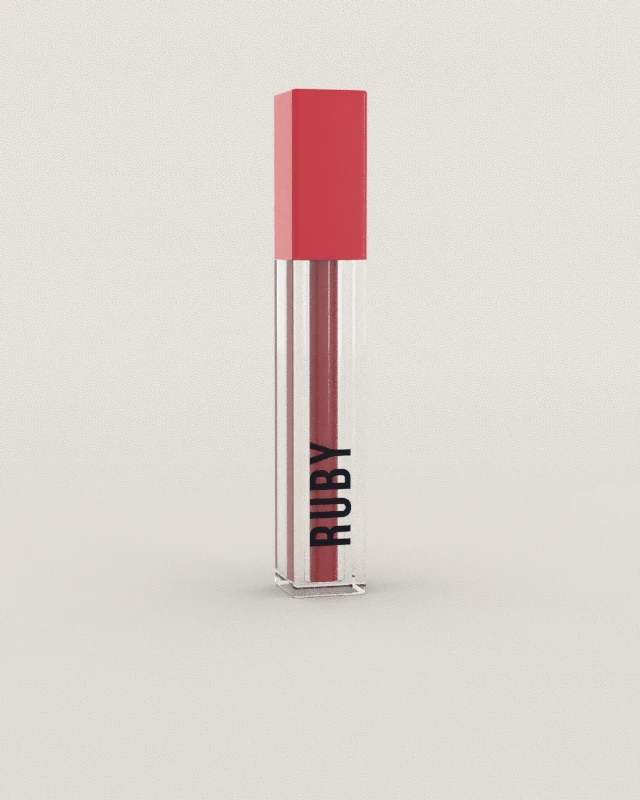
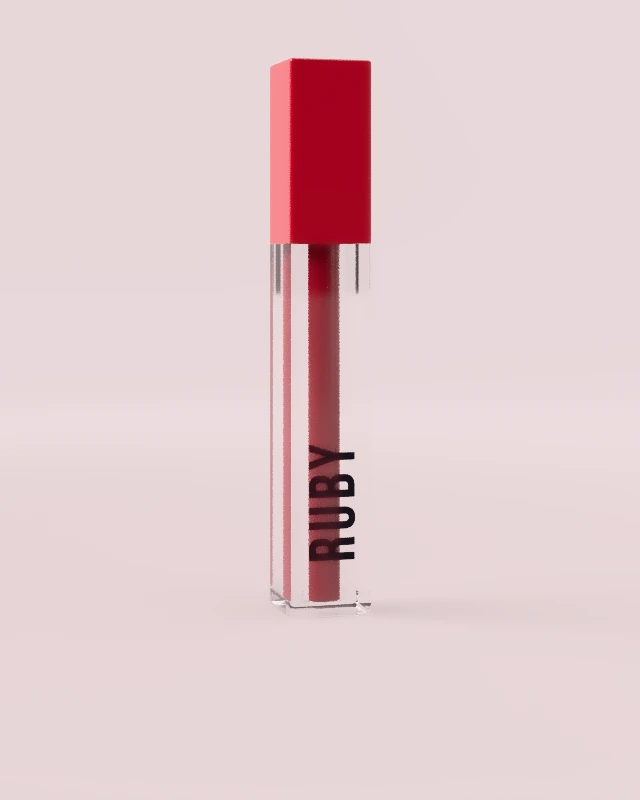
Near-white backdrop with a faint shadow, Studio returns to where it was opened
Renders
- Backdrop is nearly white with only a breath of the product's colour
- One soft light from above (a set share of the studio's floor light) throws a
  light, soft-edged shadow; the floor takes more of its light from the studio
- Archive: the last five cards rendered with the previous look, so the grid is
  consistent; docs/archive-renders.md says all 36 are to be rendered again

Studio
- The back link, and leaving through the save dialog, lead to the page the Studio
  was opened from (Archive, Design, Saved or home), kept across a reload

Changed region(s): [[0.375, 0.0625, 0.6562, 0.7812]]

diff --git a/js/render/hq-render.js b/js/render/hq-render.js
@@ -82,6 +82,34 @@
     return (s * 2 * Math.PI) / (W * H);
   };
 
+  /** One soft light from above, on the camera's left: it is what throws the light, soft-edged
+   *  shadow beside the product. It stands high, so the sides of a container never mirror it.
+   *  Its strength is a set share of the light the panorama itself throws on the floor. */
+  const KEY_UP = 0.96, KEY_SIDE = 1.0, KEY_SOFT = [0.2, 0.5], KEY_SHARE = 0.35; // radians, and its share
+  function addKey(data, W, H, facing) {
+    const front = Math.PI / 2 - facing, sky = floorLight(data, W, H);
+    const cE = Math.cos(KEY_UP), sE = Math.sin(KEY_UP), c0 = Math.cos(KEY_SOFT[0]), c1 = Math.cos(KEY_SOFT[1]);
+    const lobe = new Float32Array(W * H);
+    let own = 0;
+    for (let y = H >> 1; y < H; y++) { // the half that is overhead (rows run from the ground up)
+      const up = ((y + 0.5) / H - 0.5) * Math.PI, cu = Math.cos(up), su = Math.sin(up);
+      for (let x = 0; x < W; x++) {
+        const rel = ((x + 0.5) / W) * Math.PI * 2 - Math.PI - front; // angle from the camera, positive = left
+        const t = CL.clamp((cu * cE * Math.cos(rel - KEY_SIDE) + su * sE - c1) / (c0 - c1), 0, 1);
+        if (!t) continue;
+        lobe[y * W + x] = t * t * (3 - 2 * t); // full in the middle, fading to nothing at its edge
+        own += lobe[y * W + x] * su * cu;
+      }
+    }
+    own *= (2 * Math.PI) / (W * H); // what the lobe throws on the floor at strength 1
+    const k = own > 0 ? (KEY_SHARE * sky) / own : 0;
+    for (let i = 0; i < lobe.length; i++) {
+      if (!lobe[i]) continue;
+      const v = lobe[i] * k, j = i * 4;
+      data[j] += v; data[j + 1] += v; data[j + 2] += v;
+    }
+  }
+
   const panorama = (T, data, W, H) => {
     const tex = new T.DataTexture(data, W, H, T.RGBAFormat, T.FloatType);
     tex.mapping = T.EquirectangularReflectionMapping;
@@ -93,7 +121,7 @@
 
   /** Plain studio light (no file needed): an even, soft sky, a little brighter overhead. Used when
    *  the studio picture cannot be loaded. */
-  function plainEnv(T) {
+  function plainEnv(T, facing) {
     const W = 128, H = 64, data = new Float32Array(W * H * 4);
     for (let y = 0; y < H; y++) {
       const up = ((y + 0.5) / H - 0.5) * Math.PI; // rows run from the ground to straight overhead
@@ -104,6 +132,7 @@
         data[i + 3] = 1;
       }
     }
+    addKey(data, W, H, facing);
     return panorama(T, data, W, H);
   }
 
@@ -116,7 +145,7 @@
    *  soft, streak-free light; the right way up, bare lamps mirror in every glossy cap. */
   async function studioEnv(T, look, facing = 0) {
     let src;
-    try { src = await loadHDR(LOOKS[look].file); } catch (e) { console.warn(e); return plainEnv(T); }
+    try { src = await loadHDR(LOOKS[look].file); } catch (e) { console.warn(e); return plainEnv(T, facing); }
     const { w, h, rgb } = src, data = new Float32Array(w * h * 4);
     const lum = new Float32Array(w * h);
     let sum = 0, wt = 0;
@@ -155,6 +184,7 @@
     }
     const tone = (ENV_TONE * (LOOKS[look].level || 1)) / (fl / fw || 1);
     for (let i = 0; i < data.length; i += 4) { data[i] *= tone; data[i + 1] *= tone; data[i + 2] *= tone; }
+    addKey(data, w, h, facing);
     return panorama(T, data, w, h);
   }
   const ENV_LEVEL = 0.95; // first rough levelling of a studio picture (sets where lamps are capped)
@@ -163,9 +193,10 @@
 
   // Backdrop paper gives off its own even light, so wall and floor show exactly one colour under
   // any studio (a sweep that is only lit goes darker up the wall and to one side). PAPER_TONE: its
-  // brightness, as a share of the paper colour. PAPER_SHADOW: round the product the floor takes
-  // this share of its light from the studio instead, which is what draws the real, soft shadow.
-  const PAPER_TONE = 1, PAPER_SHADOW = 0.4;
+  // brightness, as a multiple of the paper colour (above 1: the tone mapping holds bright whites
+  // back). PAPER_SHADOW: round the product the floor takes this share of its light from the studio
+  // instead, which is what draws the real, soft shadow.
+  const PAPER_TONE = 1.2, PAPER_SHADOW = 0.75;
 
   /** Two round maps for the floor: how much studio light it takes (all of its share near the
    *  middle, none towards the rim) and how much it glows by itself (the rest, so that open floor
@@ -315,10 +346,10 @@
     return { scene, textures: Object.values(tex) };
   }
 
-  /** Backdrop paper chosen from the product: a pale wash of its most colourful part (cap or body),
-   *  or the tint inside a clear body), so the set suits the lipstick without competing with it.
-   *  Products with next to no colour
-   *  (clear, white, black, grey) get a warm neutral. */
+  /** Backdrop paper chosen from the product: nearly white, with only a breath of the colour of its
+   *  most colourful part (cap, body, or the tint inside a clear body), so the set suits the
+   *  lipstick without competing with it. Products with next to no colour (clear, white, black,
+   *  grey) get a warm white. */
   function backdropOf(design) {
     const I = CL.Preview3D.internals;
     let hue = 0, sat = 0, top = 0;
@@ -332,8 +363,8 @@
         if (score > top) { top = score; hue = h; sat = s; }
       });
     });
-    if (top < 0.1) return '#ebe8e3';
-    return CL.color.rgbToHex(CL.color.hsvToRgb({ h: hue, s: Math.min(0.07, 0.02 + sat * 0.08), v: 0.93 }));
+    if (top < 0.1) return '#f8f6f3';
+    return CL.color.rgbToHex(CL.color.hsvToRgb({ h: hue, s: Math.min(0.035, 0.01 + sat * 0.04), v: 0.98 }));
   }
 
   /** Phones, tablets and low-memory devices: the render is sized down so their GPU can finish it. */

diff --git a/js/pages/editor.js b/js/pages/editor.js
@@ -308,6 +308,14 @@
             setTimeout(() => saveB.focus(), 30);
           });
         }
+        // The way back leads to the page the Studio was opened from (the shape picker when unknown).
+        const origin = (() => {
+          let o = CL.studioOrigin;
+          if (!o) { try { o = JSON.parse(sessionStorage.getItem('coslab.studioOrigin')); } catch (e) { o = null; } }
+          const names = { home: 'nav.home', design: 'nav.design', gallery: 'nav.gallery', 'my-designs': 'nav.myDesigns' };
+          const ok = o && names[o.nav] && /^#\/[a-z-]*$/.test(o.hash || '');
+          return ok ? { hash: o.hash, label: t(names[o.nav]) } : { hash: '#/design', label: t('nav.design') };
+        })();
         async function leaveStudio(e) {
           if (!isDirty()) return; // nothing to lose: the link works as usual
           e.preventDefault();
@@ -317,7 +325,7 @@
             if (!saveNow()) { CL.toast(t('editor.quotaWarning'), 'info'); return; }
             CL.toast(t('editor.saved'));
           }
-          location.hash = '#/design';
+          location.hash = origin.hash;
         }
 
         const saveBtn = CL.h('button.btn.btn-sm.btn-outline', {
@@ -341,9 +349,9 @@
         const topbar = CL.h('header.editor-topbar', null,
           CL.h('div.editor-topbar-left', null,
             CL.h('a.studio-back-link', {
-              href: '#/design',
+              href: origin.hash,
               onclick: leaveStudio,
-              html: CL.icon('arrowLeft') + `<span>${t('nav.design')}</span>`,
+              html: CL.icon('arrowLeft') + `<span>${origin.label}</span>`,
             }),
             CL.h('div.editor-title-wrap', null, titleInput),
             CL.h('span.topbar-sep'),

diff --git a/index.html b/index.html
@@ -97,17 +97,17 @@
   <script src="js/render/lipstick-svg.js?v=47"></script>
   <script src="js/render/exporter.js?v=18"></script>
   <script src="js/render/preview3d.js?v=46"></script>
-  <script src="js/render/hq-render.js?v=78"></script>
+  <script src="js/render/hq-render.js?v=79"></script>
   <script src="js/components/pantone-picker.js?v=6"></script>
   <script src="js/components/color-picker.js?v=6"></script>
 
   <!-- Pages -->
   <script src="js/pages/home.js?v=36"></script>
   <script src="js/pages/design.js?v=24"></script>
-  <script src="js/pages/editor.js?v=80"></script>
-  <script src="js/pages/gallery.js?v=36"></script>
+  <script src="js/pages/editor.js?v=81"></script>
+  <script src="js/pages/gallery.js?v=37"></script>
   <script src="js/pages/my-designs.js?v=15"></script>
 
-  <script src="js/app.js?v=18"></script>
+  <script src="js/app.js?v=19"></script>
 </body>
 </html>

diff --git a/js/app.js b/js/app.js
@@ -136,6 +136,11 @@
     app.innerHTML = '';
     document.body.classList.toggle('app-mode', !!page.appMode);
     markNav(route);
+    // the Studio remembers which page it was opened from: its way back leads there
+    if (route.page === 'editor' && current && current.route.page !== 'editor') {
+      CL.studioOrigin = { hash: ROUTES[current.r.key] ? '#/' + current.r.key : '#/', nav: current.route.nav };
+      try { sessionStorage.setItem('coslab.studioOrigin', JSON.stringify(CL.studioOrigin)); } catch (e) { /* no storage: this visit's own memory is enough */ }
+    }
     current = { route, r };
     cleanup = page.render(app, { query: r.query, sub: r.sub, anchor: route.anchor, rerender: !!opts.rerender });
     I18N.apply(document);

diff --git a/js/pages/gallery.js b/js/pages/gallery.js
@@ -60,7 +60,7 @@
               style: { '--tint': CL.render.tintOf(design, 0.8) },
               onclick: () => setOpen(!card.classList.contains('is-open')),
             },
-              CL.h('div.sc-tube', null, CL.h('img', { src: `assets/archive/${tplId}.webp?v=19`, alt: t('templates.' + tplId), loading: 'lazy', decoding: 'async' })),
+              CL.h('div.sc-tube', null, CL.h('img', { src: `assets/archive/${tplId}.webp?v=20`, alt: t('templates.' + tplId), loading: 'lazy', decoding: 'async' })),
               CL.h('div.sc-bar', null,
                 CL.h('div.sc-title', null,
                   CL.h('h4', { text: t('templates.' + tplId) })

diff --git a/docs/archive-renders.md b/docs/archive-renders.md
@@ -24,7 +24,7 @@ commit.
 
 ```js
 // ids to render; leave empty to render every card
-const only = ['butter-cream', 'ruby-glass', 'seoul-blossom', 'graphite-red', 'champagne-toast'];
+const only = [];
 
 const T = CL.templates, seq = ['studioA', 'studioB', 'studioC', 'studioD'];
 const tallest = Math.max(...CL.models.MODELS.map((m) => m.h));
@@ -47,6 +47,8 @@ for (let i = 0; i < T.TEMPLATES.length; i++) {
 
 ## Status
 
-27 November 2026: 31 of the 36 cards follow this recipe. Still on older pictures (different
-framing and light): `butter-cream`, `ruby-glass`, `seoul-blossom`, `graphite-red`,
-`champagne-toast`. They are the ids listed in `only` above.
+27 November 2026: all 36 cards were rendered with this recipe. Right after that the renderer
+changed: the backdrop is now nearly white with only a breath of the product's colour, and a soft
+light from above throws a faint shadow. The pictures in `assets/archive/` still show the earlier,
+pinker backdrop without that shadow, so **all 36 need to be rendered again** (leave `only` empty).
+One test of the new look (Rouge 03) was checked; no full set has been made with it yet.
